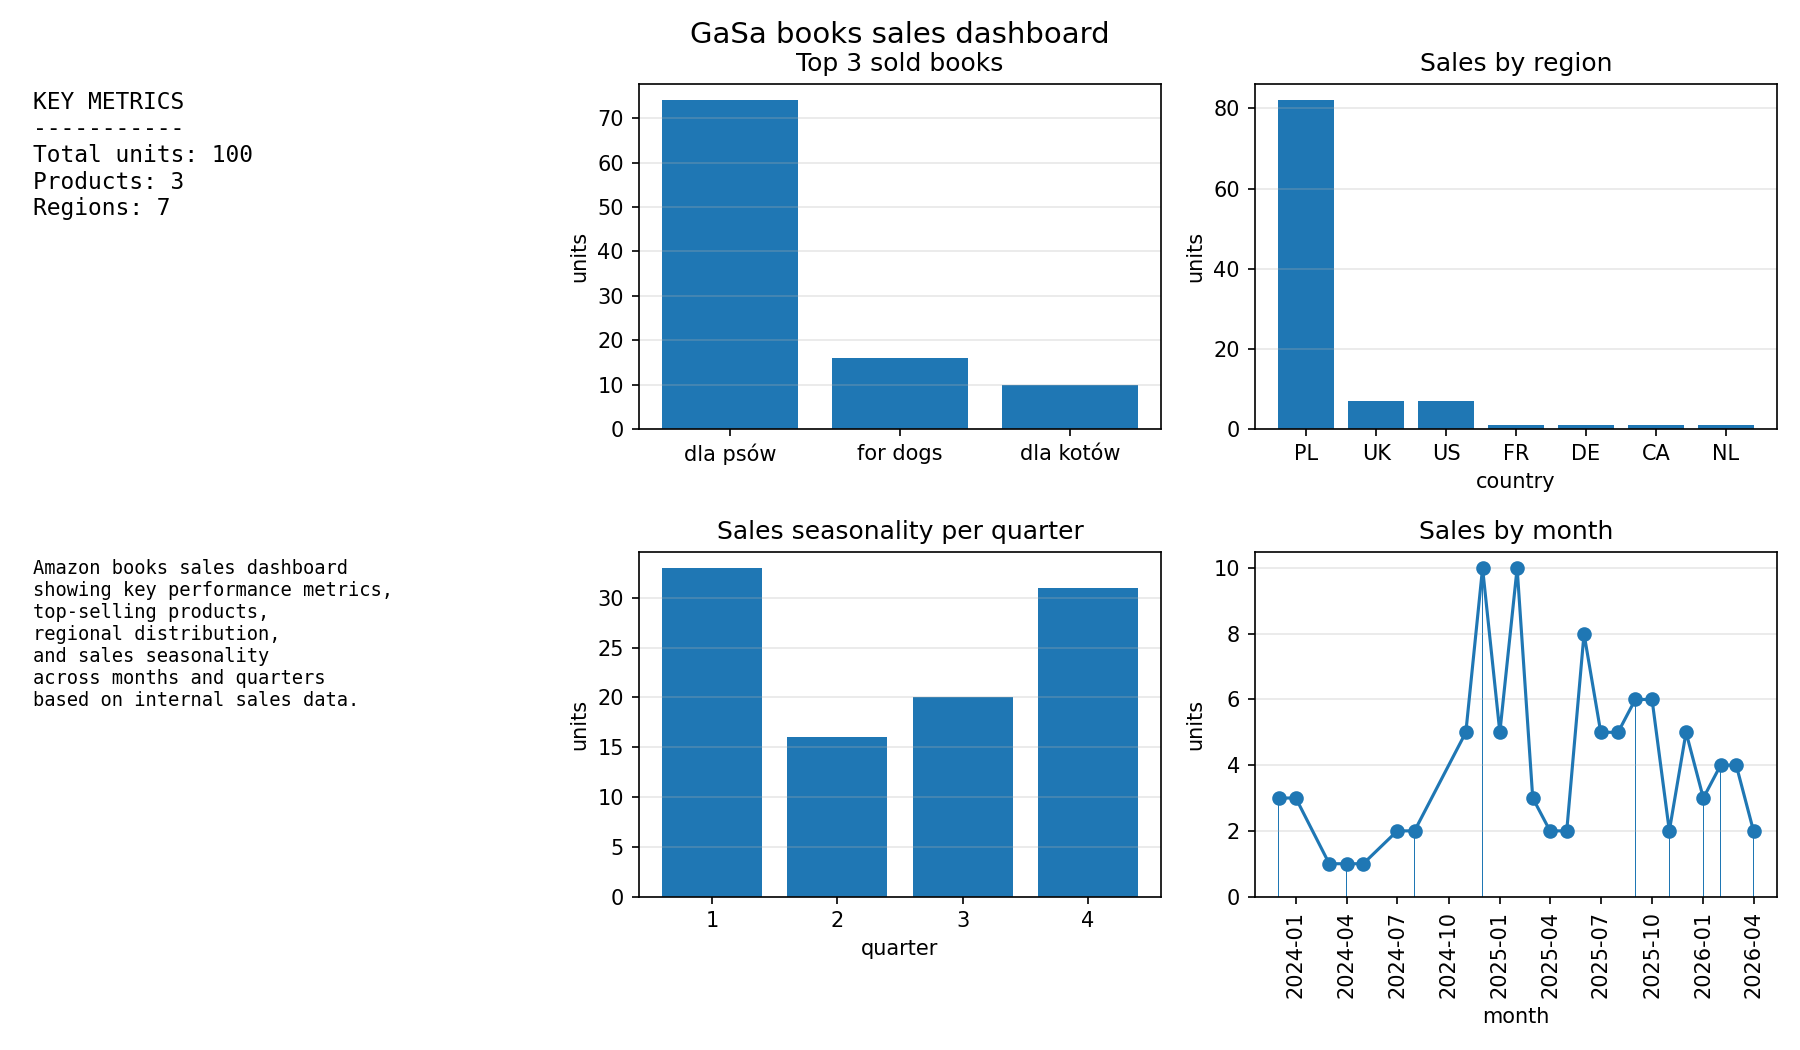
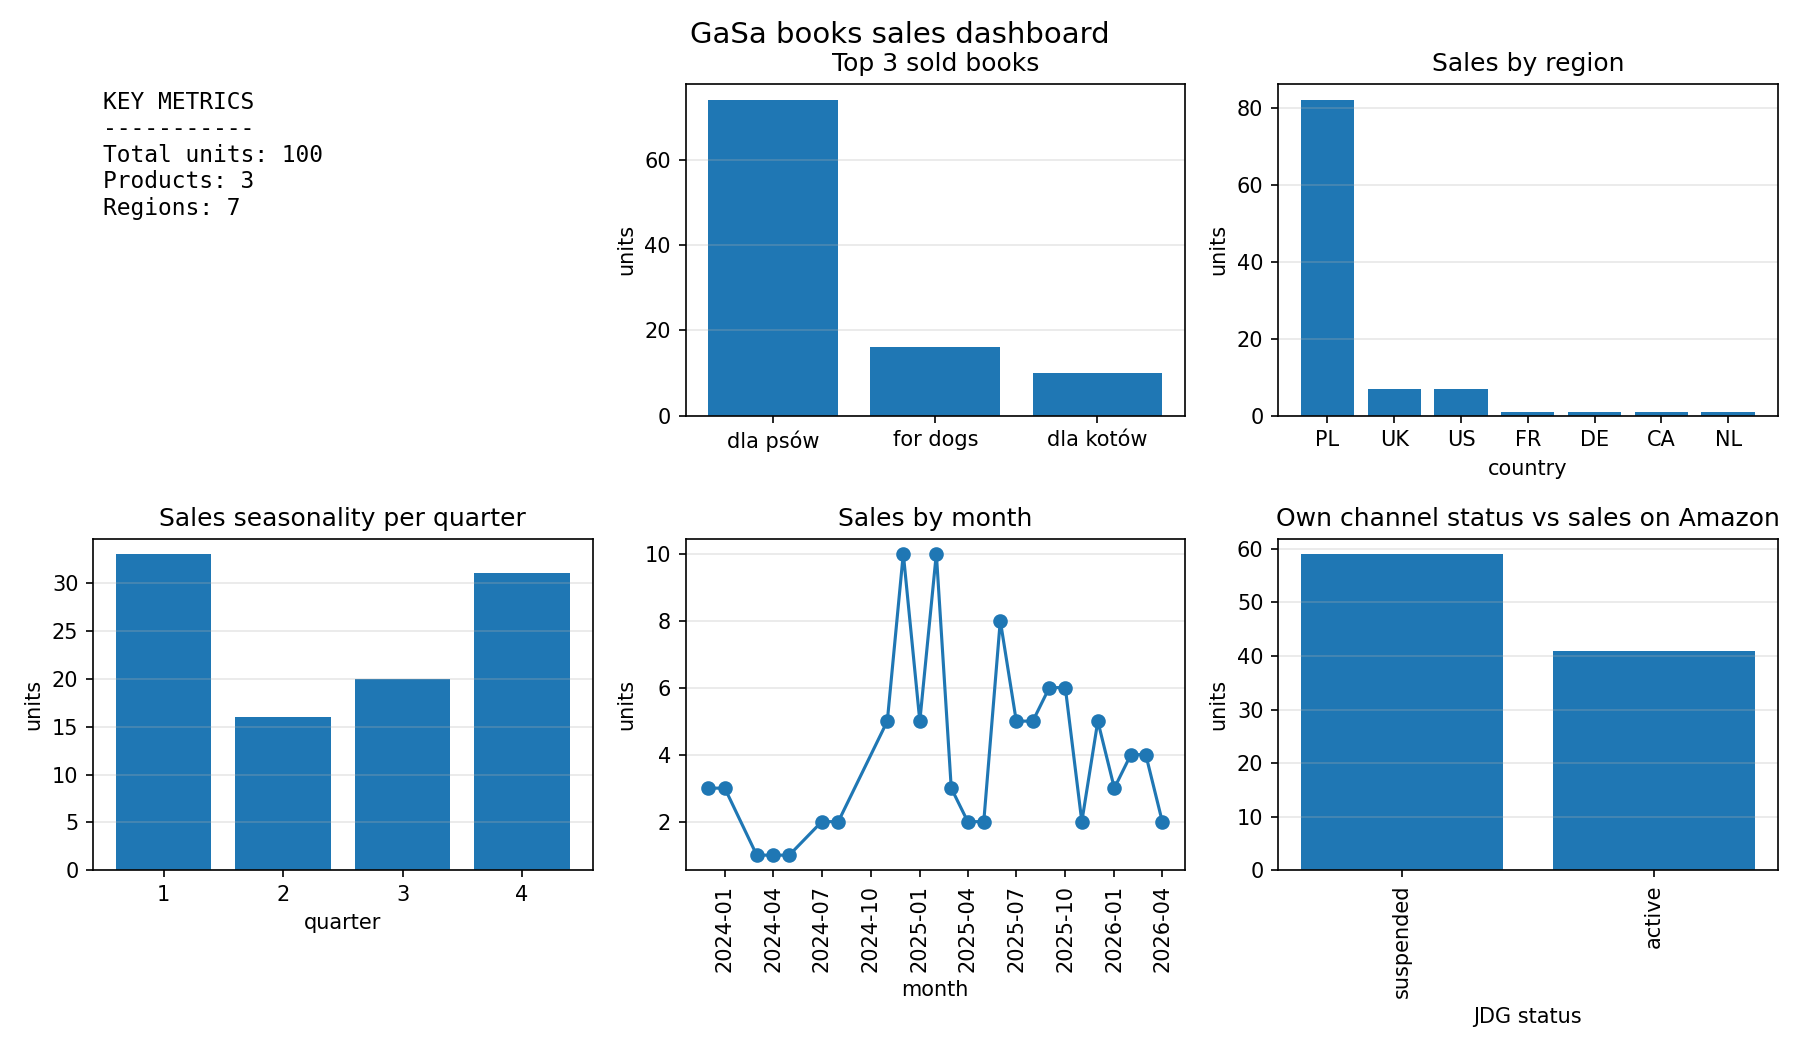
analyze: own sales vs amazon sales

diff --git a/src/visualizer.py b/src/visualizer.py
@@ -10,6 +10,7 @@ def save_dashboard(
     df_by_region,
     df_by_month,
     df_by_quarter,
+    df_impact,
     kpis: dict,
     n_top: int = 3,
     out_dir: str = "reports/figures",
@@ -36,24 +37,24 @@ def save_dashboard(
         fontsize=11, family="Monospace"
     )
 
-    axs[1, 0].axis("off")
+    # axs[1, 0].axis("off")
 
-    report_lines = [
-        "Amazon books sales dashboard",
-        "showing key performance metrics,",
-        "top-selling products,",
-        "regional distribution,",
-        "and sales seasonality ",
-        "across months and quarters",
-        "based on internal sales data.",
-    ]
-    report_text_block = "\n".join(report_lines)
+    # report_lines = [
+    #     "Amazon books sales dashboard",
+    #     "showing key performance metrics,",
+    #     "top-selling products,",
+    #     "regional distribution,",
+    #     "and sales seasonality ",
+    #     "across months and quarters",
+    #     "based on internal sales data.",
+    # ]
+    # report_text_block = "\n".join(report_lines)
 
-    axs[1, 0].text(
-        0.02, 0.98, report_text_block,
-        va="top", ha="left",
-        fontsize=9, family="Monospace"
-    )
+    # axs[1, 0].text(
+    #     0.02, 0.98, report_text_block,
+    #     va="top", ha="left",
+    #     fontsize=9, family="Monospace"
+    # )
 
     axs[0, 1].bar(top["shorttitle"], top["units_sum"])
     axs[0, 1].set_title(f"Top {n_top} sold books")
@@ -62,23 +63,28 @@ def save_dashboard(
     axs[0, 1].grid(axis="y", alpha=0.3)
 
     axs[0, 2].bar(df_by_region["region"], df_by_region["units_sum"])
-    axs[0, 2].set_title(f"Sales by region")
+    axs[0, 2].set_title("Sales by region")
     axs[0, 2].set_xlabel("country")
     axs[0, 2].set_ylabel("units")
     axs[0, 2].grid(axis="y", alpha=0.3)
 
-    axs[1, 1].bar(df_by_quarter["quarter"], df_by_quarter["units_sum"])
-    axs[1, 1].set_title(f"Sales seasonality per quarter")
-    axs[1, 1].set_xlabel("quarter")
+    axs[1, 0].bar(df_by_quarter["quarter"], df_by_quarter["units_sum"])
+    axs[1, 0].set_title("Sales seasonality per quarter")
+    axs[1, 0].set_xlabel("quarter")
+    axs[1, 0].set_ylabel("units")
+    axs[1, 0].grid(axis="y", alpha=0.3)
+
+    axs[1, 1].plot(df_by_month["month"], df_by_month["units_sum"], marker="o")
+    axs[1, 1].set_title("Sales by month")
+    axs[1, 1].set_xlabel("month")
     axs[1, 1].set_ylabel("units")
+    axs[1, 1].tick_params(axis="x", rotation=90)
     axs[1, 1].grid(axis="y", alpha=0.3)
 
-    axs[1, 2].plot(df_by_month["month"], df_by_month["units_sum"], marker="o")
-    axs[1, 2].bar(df_by_month["month"], df_by_month["units_sum"])
-    axs[1, 2].set_title(f"Sales by month")
-    axs[1, 2].set_xlabel("month")
+    axs[1, 2].bar(df_impact["status"], df_impact["units_sum"])
+    axs[1, 2].set_title("Own channel status vs sales on Amazon")
+    axs[1, 2].set_xlabel("JDG status")
     axs[1, 2].set_ylabel("units")
-    axs[1, 2].tick_params(axis="x", rotation=90)
     axs[1, 2].grid(axis="y", alpha=0.3)
 
     fig.suptitle("GaSa books sales dashboard", fontsize=14, y=0.98)

diff --git a/src/analyzer.py b/src/analyzer.py
@@ -6,7 +6,7 @@ class SalesAnalyzer:
     def __init__(self, df_sales):
         self.df = df_sales.copy() # defensive copy
         
-        required = ["date", "title", "asin", "marketplace", "units"]
+        required = ["month", "title", "asin", "marketplace", "units", "jdg"]
         missing = []
         for c in required:
             if c not in self.df.columns:
@@ -15,10 +15,11 @@ class SalesAnalyzer:
         if missing:
             raise ValueError(f"SalesAnalyzer: missing required columns {missing}")
         
-        self.df = self.df[self.df["date"].notna()]
+        self.df = self.df[self.df["month"].notna()]
 
         self._add_shorttitle()
         self._add_region()
+        self._add_status()
 
     def _add_shorttitle(self):
         asin_map = {
@@ -35,6 +36,13 @@ class SalesAnalyzer:
             .str.upper()
             .replace({"COM": "US"})  # exception for Amazon.com
         )
+    
+    def _add_status(self):
+        status_map = {
+            0: "suspended",
+            1: "active"
+        }
+        self.df["status"] = self.df["jdg"].map(status_map)
     
     def kpis(self):
         out = {}
@@ -60,7 +68,7 @@ class SalesAnalyzer:
         return agg
     
     def by_month(self):
-        self.df["month"] = self.df["date"].dt.to_period("M").dt.to_timestamp()
+        self.df["month"] = self.df["month"].dt.to_period("M").dt.to_timestamp()
         agg = (
             self.df.groupby("month", as_index=False)
                .agg(units_sum=("units", "sum"))
@@ -70,7 +78,7 @@ class SalesAnalyzer:
     
     def by_quarter(self):
         # sales seasonality
-        self.df["quarter"] = self.df["date"].dt.quarter
+        self.df["quarter"] = self.df["month"].dt.quarter
 
         agg = (
             self.df.groupby("quarter", as_index=False)
@@ -78,3 +86,13 @@ class SalesAnalyzer:
             .sort_values("units_sum", ascending=False)
         )
         return agg
+    
+    def amazon_vs_jdg(self):
+        agg = (
+            self.df.groupby("status", as_index=False)
+            .agg(units_sum=("units", "sum"))
+            .sort_values("units_sum", ascending=False)
+        )
+        print(agg)
+        return agg
+    

diff --git a/src/cleaner.py b/src/cleaner.py
@@ -21,12 +21,12 @@ class Cleaner:
     def clean_sales(self, df_sales):
         df = self._standarize_columns(df_sales)
 
-        df["date"] = pd.to_datetime(df["date"], errors="coerce")
+        df["month"] = pd.to_datetime(df["date"], errors="coerce")
         df["units"] = pd.to_numeric(df["units"], errors="coerce")
 
         df["units"] = df["units"].fillna(0)
         df = df[df["units"] >= 0]
-        df = df[df["date"].notna()]
+        df = df[df["month"].notna()]
 
         df = df.reset_index(drop=True)
 
@@ -36,12 +36,17 @@ class Cleaner:
         df = self._standarize_columns(df_jdg)
         df["month"] = pd.to_datetime(df["miesiac"], errors="coerce")
         
-        df["jdg_active"] = df["jdg"].apply(
-            lambda x: 0 if str(x).strip().lower() == "zawieszona" else 1
-        )
+        df["jdg"] = df["jdg"].isna().astype(int)
         
-        df = df[["month", "jdg_active"]]
-        df = df.dropna(subset=["month"])
+        df = df[["month", "jdg"]]
 
-        print("JDG", df)
+        print(df)
         return df
+    
+    def enrich_sales_with_own_activity(self, df_sales, df_activity):
+        merged = df_sales.merge(
+            df_activity[["month", "jdg"]],
+            on="month",
+            how="left"
+        )
+        return merged

diff --git a/src/main.py b/src/main.py
@@ -8,8 +8,7 @@ import os
 loader = Loader(data_dir="data")
 
 try:
-    amazon_sales = loader.load_sales()
-    own_channel_sales = loader.load_own_channel_activity()
+    amazon_sales, own_sales = loader.load_all()
 except Exception as e:
     print("Data loading error: ", e)
     raise SystemExit(1)
@@ -17,15 +16,17 @@ except Exception as e:
 # 2) Clean
 cleaner = Cleaner()
 sales = cleaner.clean_sales(amazon_sales)
-own_sales = cleaner.clean_jdg(own_channel_sales)
+own_sales = cleaner.clean_jdg(own_sales)
+sales_enriched = cleaner.enrich_sales_with_own_activity(sales, own_sales)
 
 # 3) Analyze
-analyzer = SalesAnalyzer(sales)
+analyzer = SalesAnalyzer(sales_enriched)
 kpis = analyzer.kpis()
 by_prod = analyzer.by_product()
 by_reg = analyzer.by_region()
 by_month = analyzer.by_month()
 by_q = analyzer.by_quarter()
+check_impact = analyzer.amazon_vs_jdg()
 
 # 4) Visualyze
 os.makedirs("reports/figures", exist_ok=True)
@@ -35,6 +36,7 @@ out = viz.save_dashboard(
     df_by_region=by_reg,
     df_by_month=by_month,
     df_by_quarter=by_q,
+    df_impact=check_impact,
     kpis=kpis,
     n_top=3,
     out_dir="reports/figures",

diff --git a/src/loader.py b/src/loader.py
@@ -66,3 +66,8 @@ class Loader:
         df = self._read_csv(self.path_own_channel_sales)
         self._validate_columns(df, ["Miesiac" ,"JDG"], "own_channel_activity.csv")
         return df
+    
+    def load_all(self):
+        amazon_sales = self.load_sales()
+        own_activity = self.load_own_channel_activity()
+        return amazon_sales, own_activity
